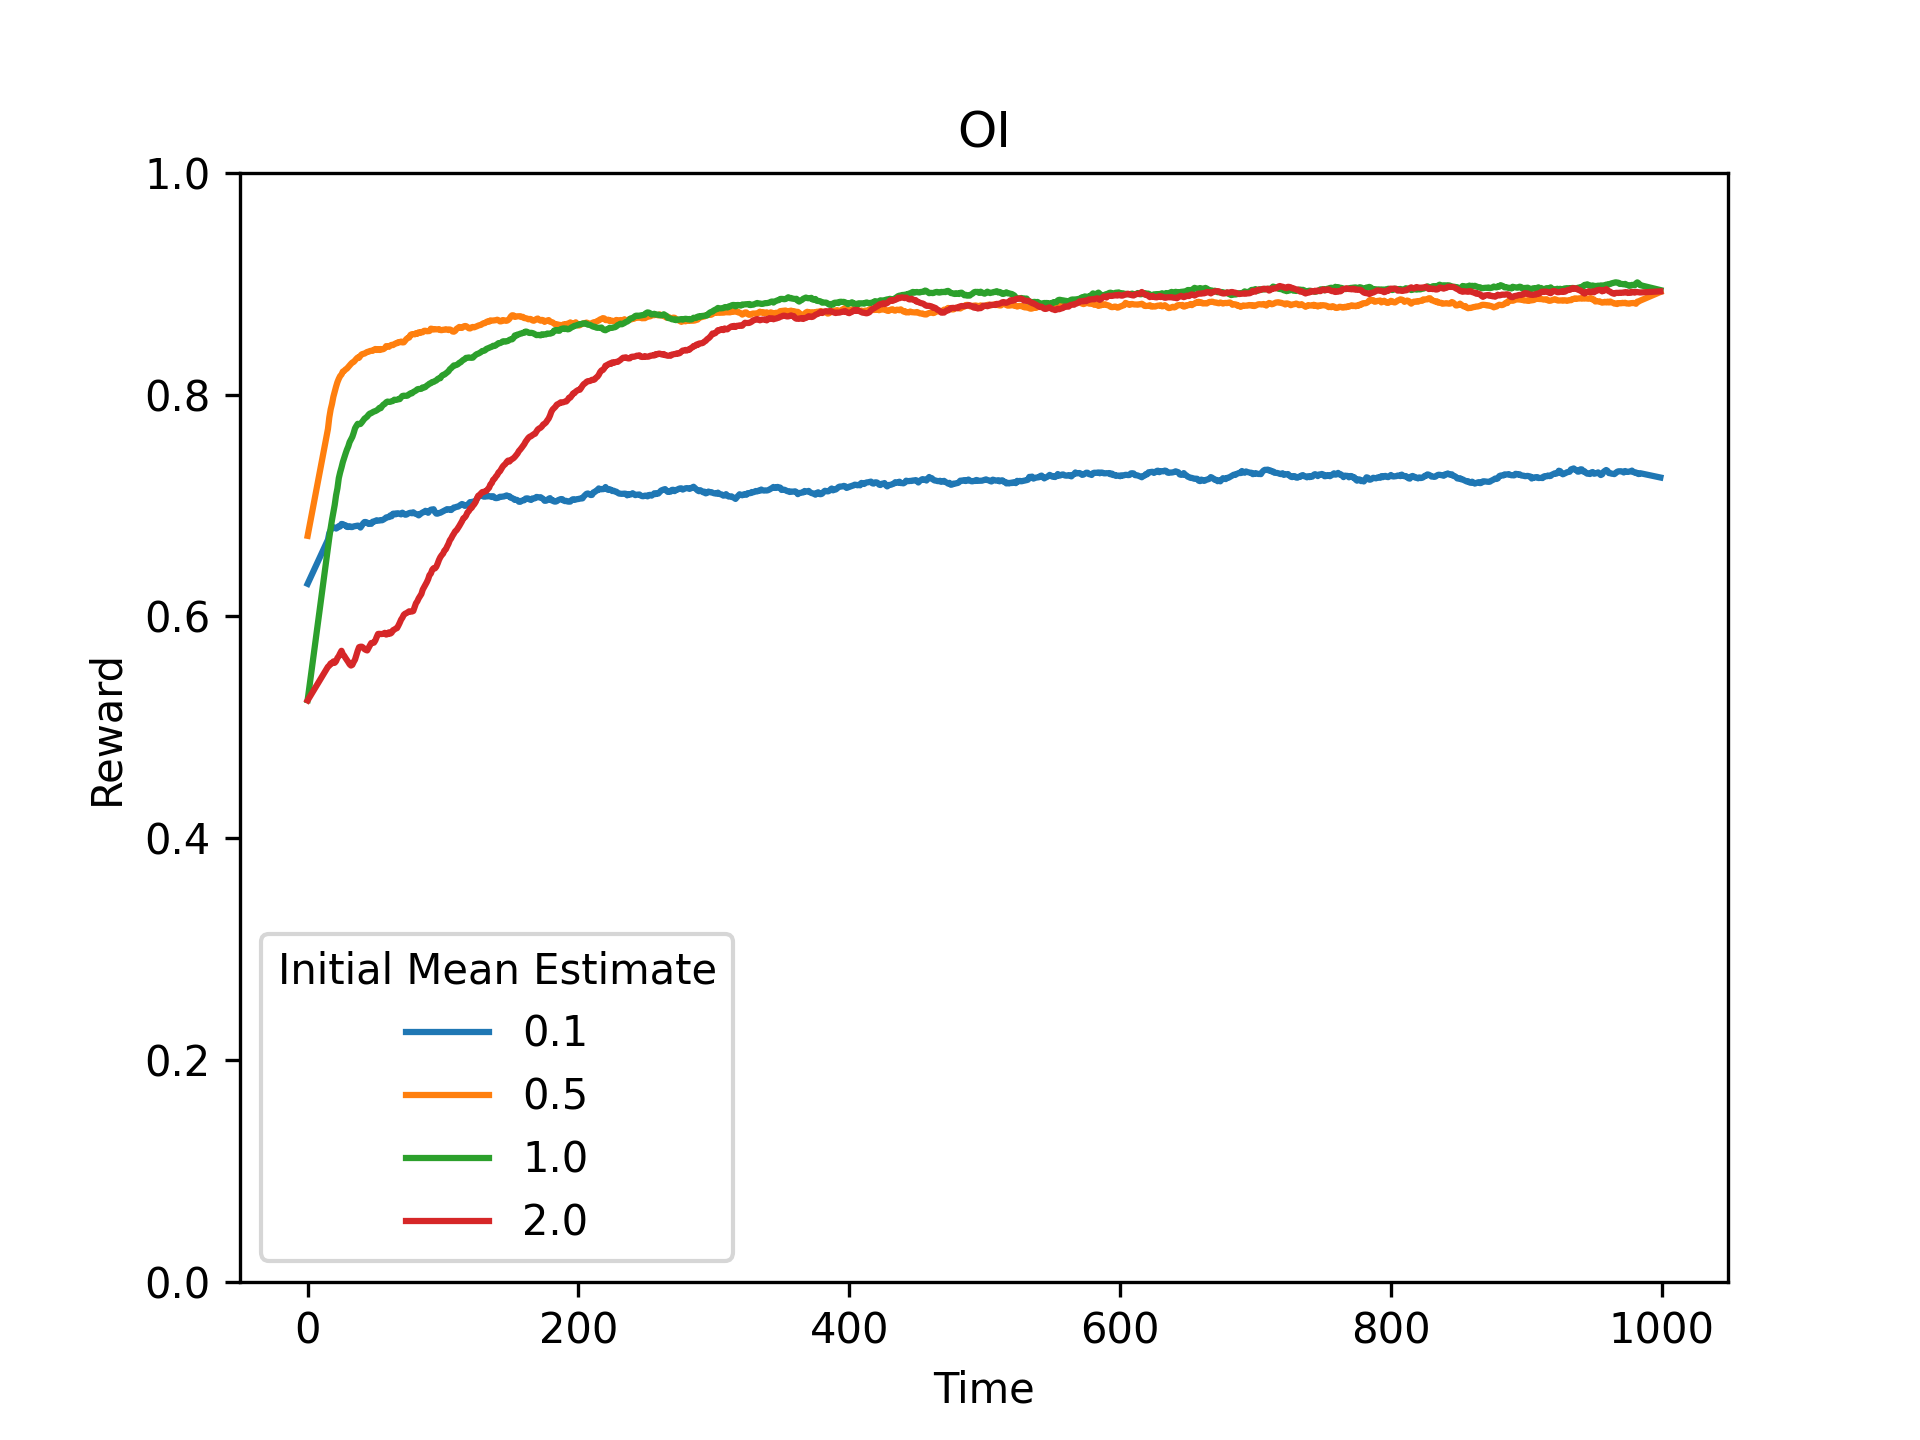
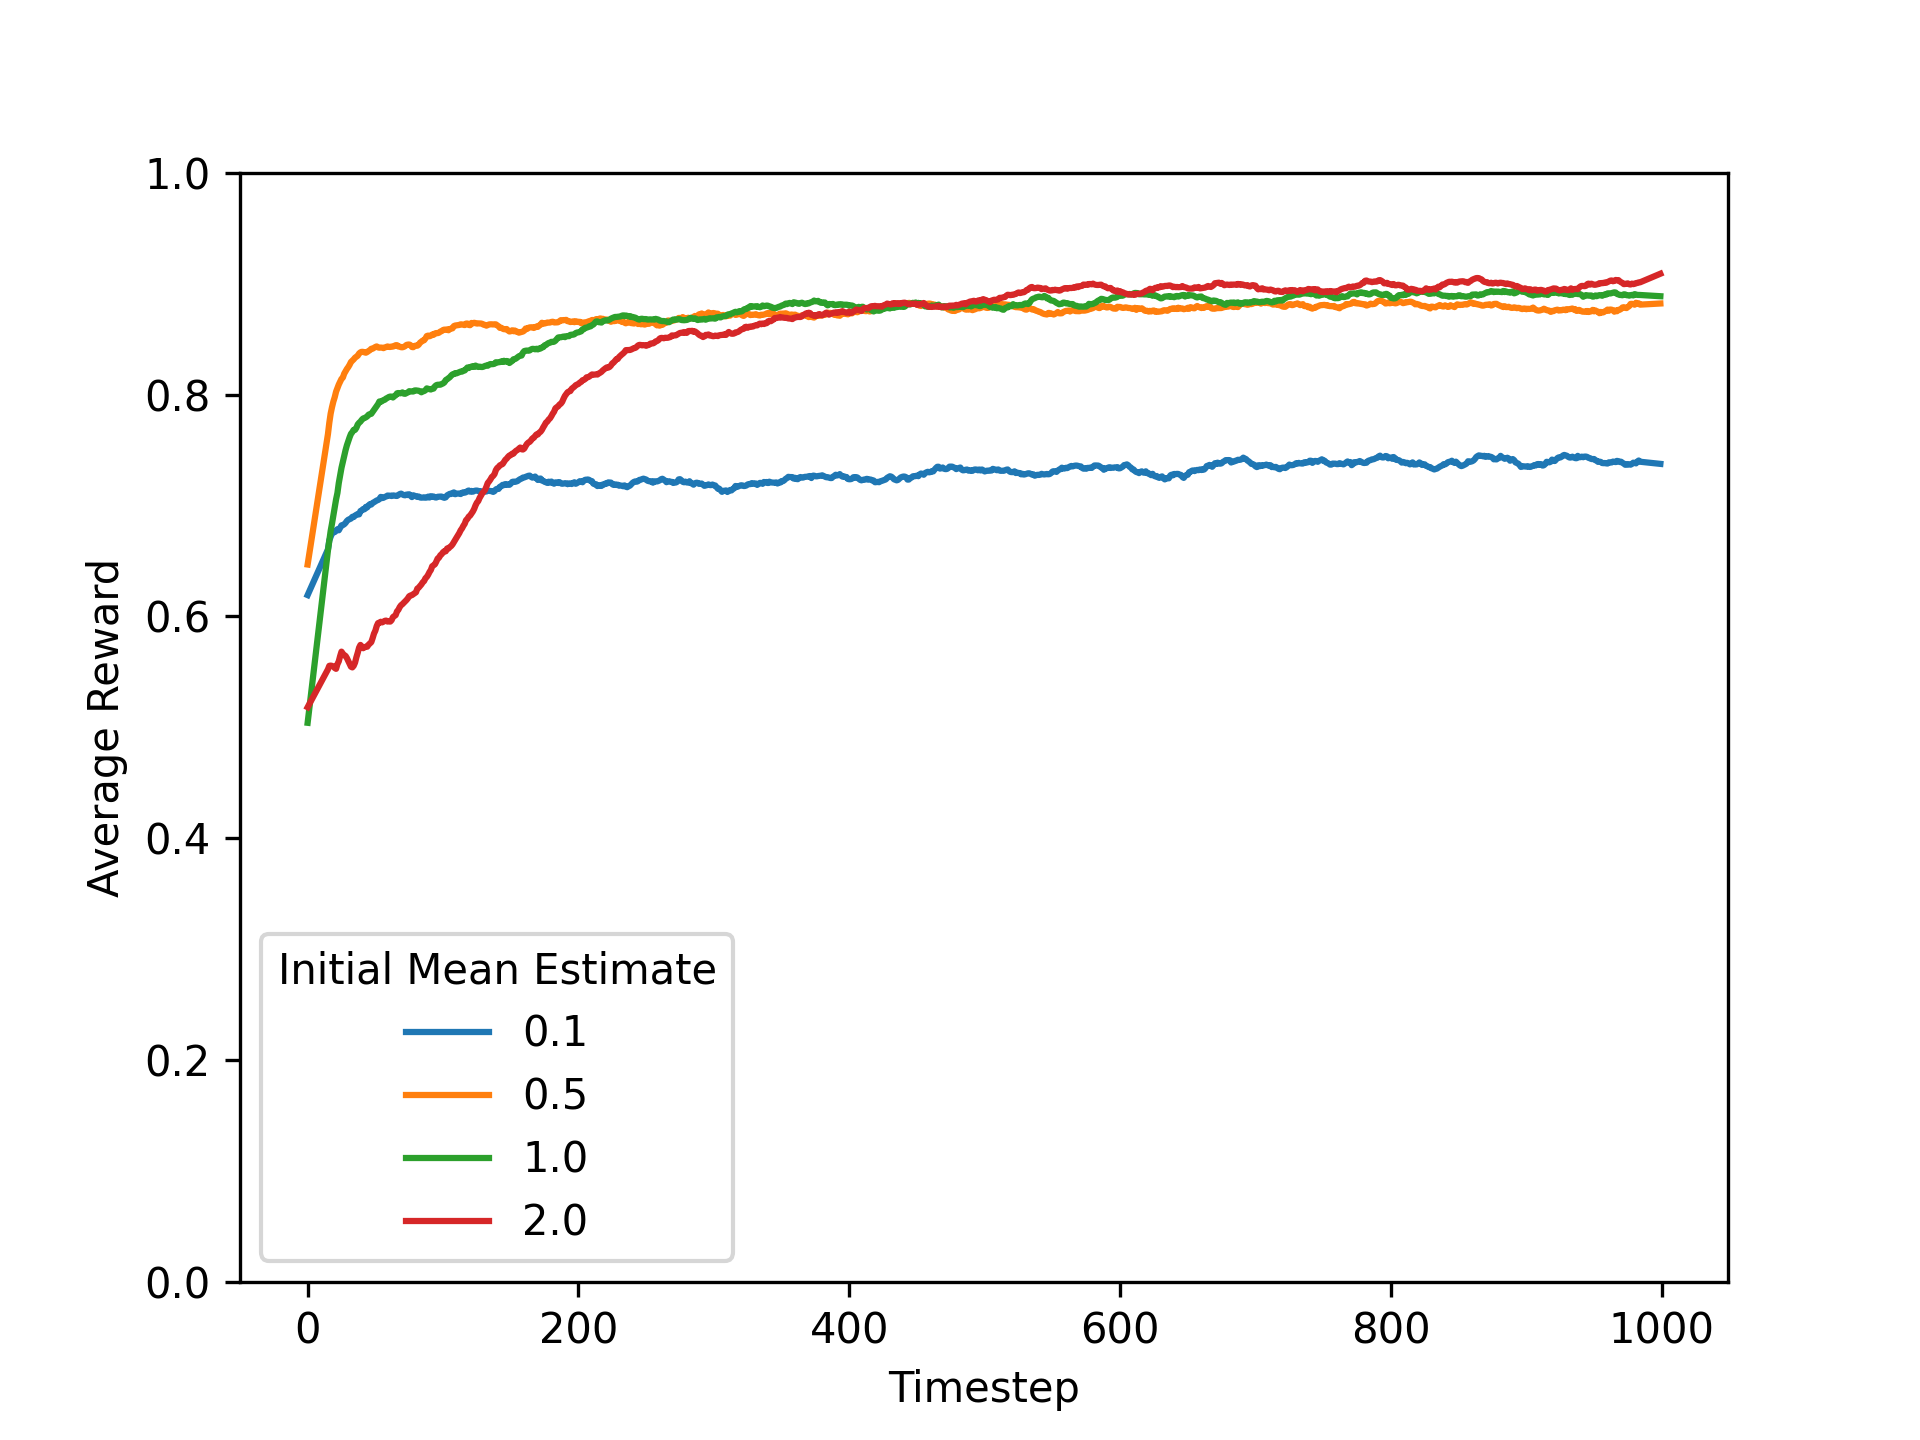
fix plotting and add final graphs

diff --git a/BanditExperiment.py b/BanditExperiment.py
@@ -69,7 +69,7 @@ def plot_exp(title: str, legend_title: str, rewards, legend_values):
     plot = LearningCurvePlot("")
     for i, value in enumerate(legend_values):
         plot.add_curve(rewards[i], str(value))
-    plot.save(title.replace(" ", "_"), legend_title)
+    plot.save(name=title.replace(" ", "_"), legend_title=legend_title)
 
 
 def experiment(n_actions, n_timesteps, n_repetitions, smoothing_window):
